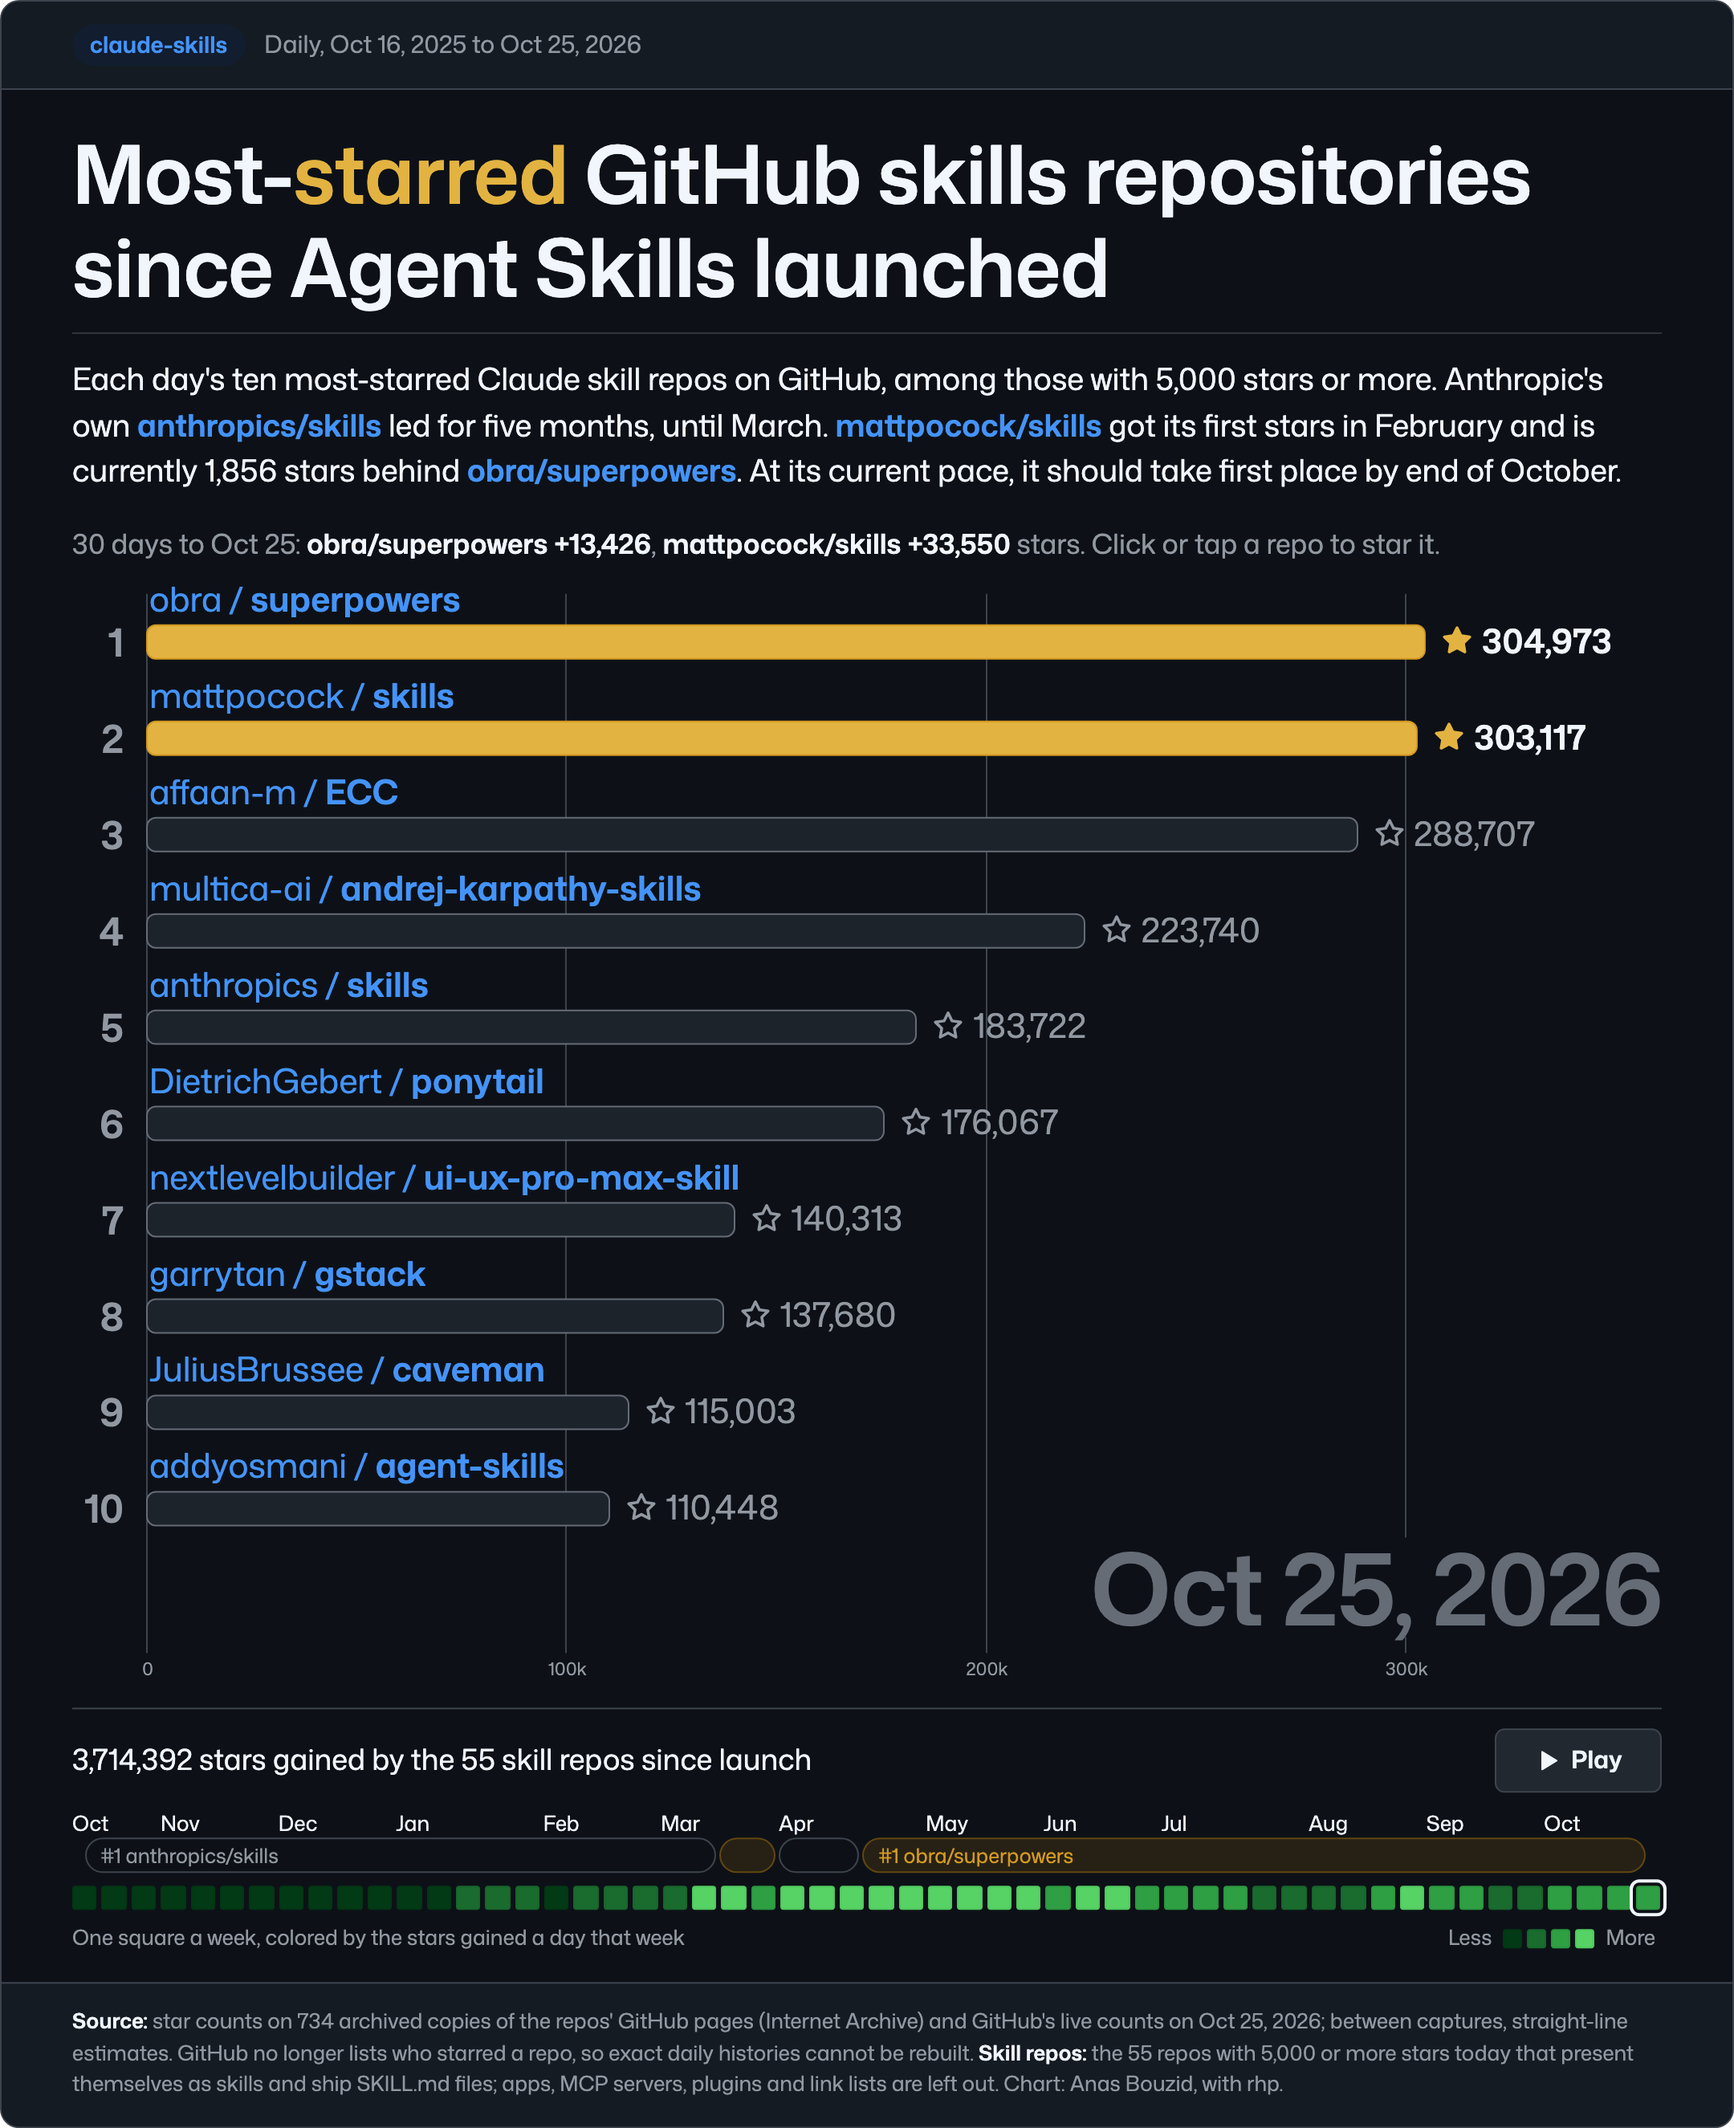
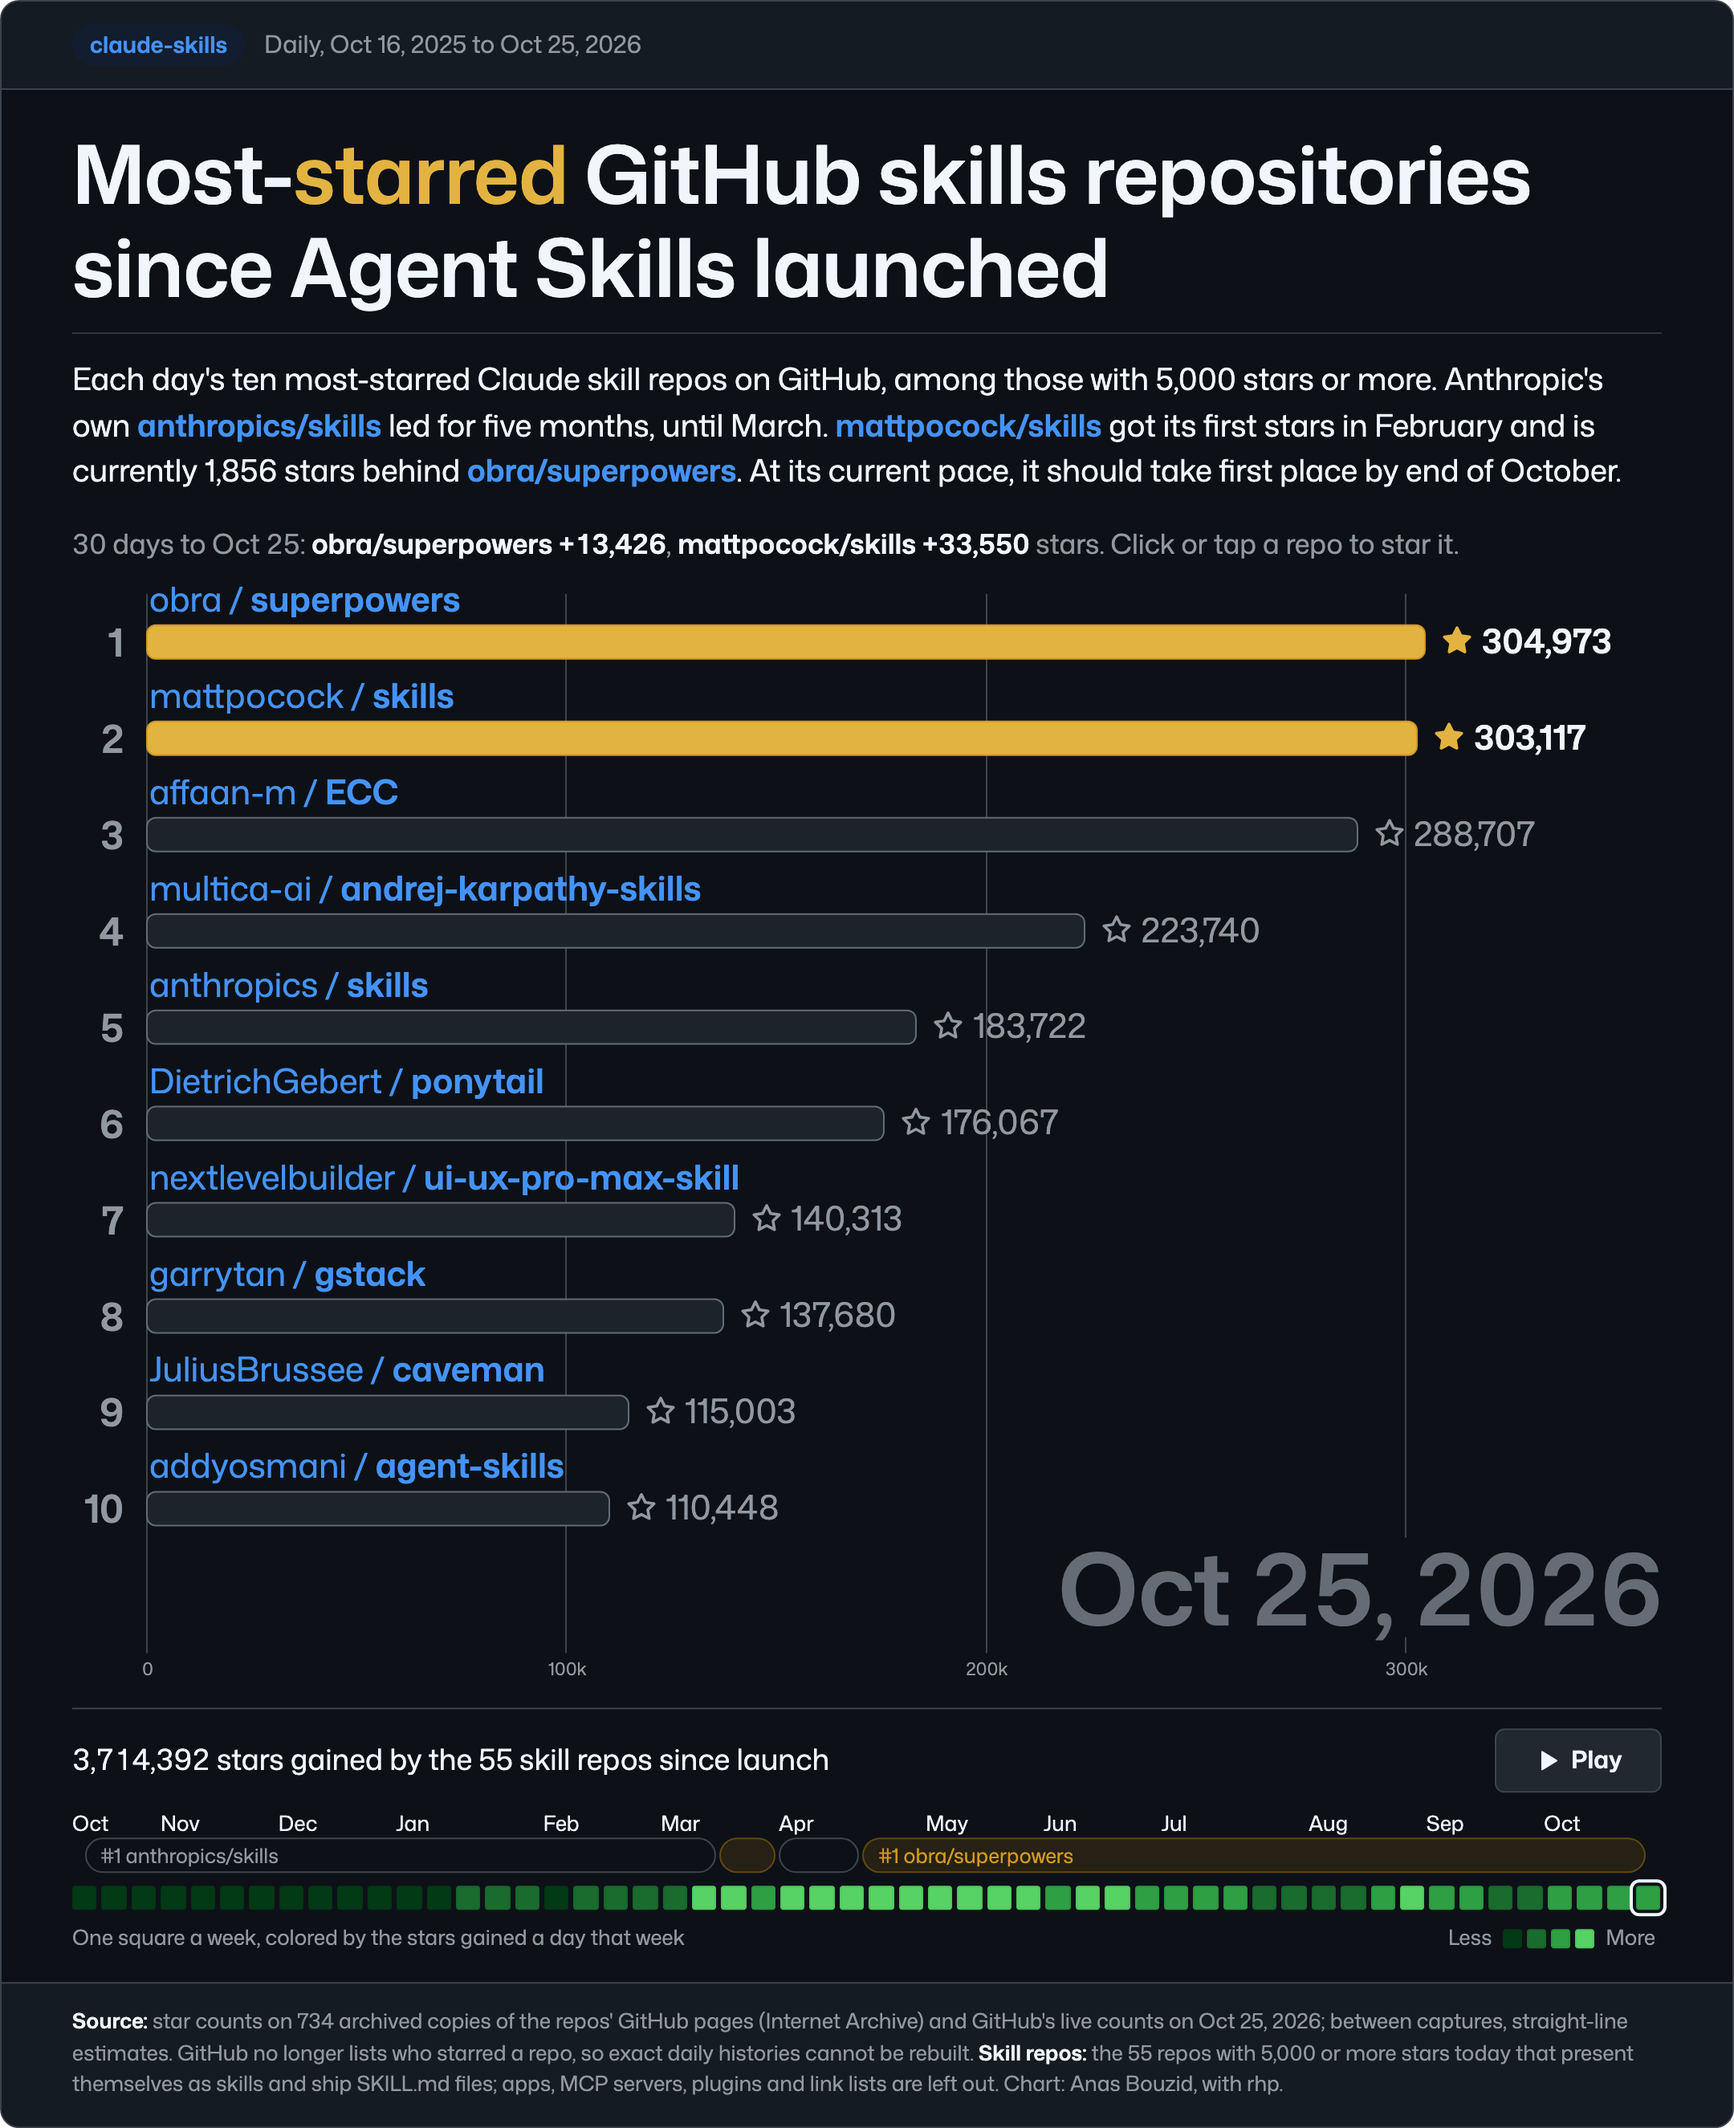
Keep the skill repo race's changing numbers from shifting the words around them
The stars-gained count, the readout and the date set each digit in a slot as wide as the widest, so the words beside them keep still as the race plays (measured over 60 days: the words after the count stay at one place instead of 58, the date's edge moves only when its month or day length changes). Mona Sans's own equal-width digits draw a slashed zero, so the poster keeps its digits.

diff --git a/examples/real/skill-repos-race/poster.template.html b/examples/real/skill-repos-race/poster.template.html
@@ -39,6 +39,7 @@ body { margin: 0; padding: 40px 16px; background: var(--page); color: var(--fg);
 .dock { display: contents; }
 .readout { grid-area: readout; height: 28px; margin: 0 0 6px; overflow: hidden; font-size: 17px; line-height: 28px; white-space: nowrap; text-overflow: ellipsis; color: var(--muted); }
 .readout b { color: var(--fg); font-weight: 600; }
+.digit { display: inline-block; width: .625em; text-align: center; }
 .stage { grid-area: stage; position: relative; --slat: 60px; --inset: 19px; }
 /* The date, large in the empty place under the shortest bars, as the race plays */
 .when { position: absolute; right: 0; bottom: 34px; z-index: 2; padding: 0 0 0 12px; background: var(--canvas); font: 600 62px/1 var(--text); letter-spacing: -.02em; color: var(--disabled); pointer-events: none; }
@@ -155,6 +156,9 @@ const longDate = new Intl.DateTimeFormat("en-US", { month: "short", day: "numeri
 const monthYear = new Intl.DateTimeFormat("en-US", { month: "short", year: "numeric", timeZone: "UTC" });
 const month = new Intl.DateTimeFormat("en-US", { month: "long", timeZone: "UTC" });
 const shortDate = new Intl.DateTimeFormat("en-US", { month: "short", day: "numeric", timeZone: "UTC" });
+// Text whose numbers change as the race plays: each digit in a slot as wide as the widest, so the words around the
+// number keep still (Mona Sans's own equal-width digits draw a slashed zero)
+const steady = (text) => [...text].map((c) => (c >= "0" && c <= "9" ? html`<span class="digit">${c}</span>` : c));
 
 // The weeks: four levels of stars gained a day, at the quartiles of the year, as GitHub's graph colors its days
 const WEEKS = DATA.weeks;
@@ -396,11 +400,11 @@ function SkillRace() {
       const from = Math.max(0, k - 30);
       const two = [...RACE[k]].sort((a, b) => REPOS[b].stars[k] - REPOS[a].stars[k]).slice(0, 2);
       if (two.length < 2) return "Point at a repo to read it; click or tap to star it";
-      const gain = (j) => `${REPOS[j].full} +${count.format(REPOS[j].stars[k] - REPOS[j].stars[from])}`;
-      return html`<span>${k - from} days to ${shortDate.format(dateOf(k))}: <b>${gain(two[0])}</b>, <b>${gain(two[1])}</b> stars. Click or tap a repo to star it.</span>`;
+      const gain = (j) => steady(`${REPOS[j].full} +${count.format(REPOS[j].stars[k] - REPOS[j].stars[from])}`);
+      return html`<span>${steady(`${k - from} days to ${shortDate.format(dateOf(k))}`)}: <b>${gain(two[0])}</b>, <b>${gain(two[1])}</b> stars. Click or tap a repo to star it.</span>`;
     }
     const r = REPOS[i];
-    return html`<b>${r.full}</b>: #${rankOf(i)} with ${count.format(Math.round(stars()[i]))} stars on ${longDate.format(dateOf(t()))}, created ${monthYear.format(new Date(r.created))}`;
+    return html`<b>${r.full}</b>: ${steady(`#${rankOf(i)} with ${count.format(Math.round(stars()[i]))} stars on ${longDate.format(dateOf(t()))}`)}, created ${monthYear.format(new Date(r.created))}`;
   };
   const week = () => Math.min(WEEKS.length - 1, Math.floor(t() / 7));
   // The graph's heading counts, as GitHub's counts contributions: the stars all tracked repos gained since the launch
@@ -420,7 +424,7 @@ function SkillRace() {
       <div class="stage" ref=${(el) => (stage = el)} style=${() => ({ "--chart-w": `${width()}px` })}
         onPointerMove=${(e) => e.pointerType !== "touch" && pick(e)} onClick=${star} onKeyDown=${starKey} onFocusIn=${pick}
         onPointerLeave=${leave} onFocusOut=${(e) => !e.currentTarget.contains(e.relatedTarget) && setPicked(null)}>
-        <span class="when" aria-hidden="true">${() => longDate.format(dateOf(t()))}</span>
+        <span class="when" aria-hidden="true">${() => steady(longDate.format(dateOf(t())))}</span>
         <${Chart} scale=${() => [0, top() * headroom()]} ticks=${4} animate=${{ slide: 300 }}
           format=${(v) => html`<span class="tick">${short.format(v).toLowerCase()}</span>`}
           label=${() => `GitHub stars of the ten most-starred Claude skill repos on ${when()}`}
@@ -434,7 +438,7 @@ function SkillRace() {
       <div class="dock">
       <p class="readout" aria-live=${() => (playing() ? "off" : "polite")}>${readout}</p>
       <div class="timeline">
-        <h2 class="count">${() => count.format(Math.round(gained()))} stars gained by the ${DATA.tracked} skill repos since launch</h2>
+        <h2 class="count">${() => steady(count.format(Math.round(gained())))} stars gained by the ${DATA.tracked} skill repos since launch</h2>
         <button type="button" class="play" onClick=${toggle}>${() => (playing() ? PAUSE() : PLAY())}<span class="label">${() => (playing() ? "Pause" : "Play")}</span></button>
         <div class="graph" style=${{ "--weeks": WEEKS.length, "--span": `${(LAST / (7 * WEEKS.length)) * 100}%` }}>
           <div class="months" aria-hidden="true">${MONTHS.map((m) => html`<span class=${m.alt ? "alt" : ""} style=${{ left: `${(m.i / WEEKS.length) * 100}%` }}>${m.name}</span>`)}</div>

diff --git a/examples/real/skill-repos-race/skill-repos-race.html b/examples/real/skill-repos-race/skill-repos-race.html
@@ -41,6 +41,7 @@ body { margin: 0; padding: 40px 16px; background: var(--page); color: var(--fg);
 .dock { display: contents; }
 .readout { grid-area: readout; height: 28px; margin: 0 0 6px; overflow: hidden; font-size: 17px; line-height: 28px; white-space: nowrap; text-overflow: ellipsis; color: var(--muted); }
 .readout b { color: var(--fg); font-weight: 600; }
+.digit { display: inline-block; width: .625em; text-align: center; }
 .stage { grid-area: stage; position: relative; --slat: 60px; --inset: 19px; }
 /* The date, large in the empty place under the shortest bars, as the race plays */
 .when { position: absolute; right: 0; bottom: 34px; z-index: 2; padding: 0 0 0 12px; background: var(--canvas); font: 600 62px/1 var(--text); letter-spacing: -.02em; color: var(--disabled); pointer-events: none; }
@@ -157,6 +158,9 @@ const longDate = new Intl.DateTimeFormat("en-US", { month: "short", day: "numeri
 const monthYear = new Intl.DateTimeFormat("en-US", { month: "short", year: "numeric", timeZone: "UTC" });
 const month = new Intl.DateTimeFormat("en-US", { month: "long", timeZone: "UTC" });
 const shortDate = new Intl.DateTimeFormat("en-US", { month: "short", day: "numeric", timeZone: "UTC" });
+// Text whose numbers change as the race plays: each digit in a slot as wide as the widest, so the words around the
+// number keep still (Mona Sans's own equal-width digits draw a slashed zero)
+const steady = (text) => [...text].map((c) => (c >= "0" && c <= "9" ? html`<span class="digit">${c}</span>` : c));
 
 // The weeks: four levels of stars gained a day, at the quartiles of the year, as GitHub's graph colors its days
 const WEEKS = DATA.weeks;
@@ -398,11 +402,11 @@ function SkillRace() {
       const from = Math.max(0, k - 30);
       const two = [...RACE[k]].sort((a, b) => REPOS[b].stars[k] - REPOS[a].stars[k]).slice(0, 2);
       if (two.length < 2) return "Point at a repo to read it; click or tap to star it";
-      const gain = (j) => `${REPOS[j].full} +${count.format(REPOS[j].stars[k] - REPOS[j].stars[from])}`;
-      return html`<span>${k - from} days to ${shortDate.format(dateOf(k))}: <b>${gain(two[0])}</b>, <b>${gain(two[1])}</b> stars. Click or tap a repo to star it.</span>`;
+      const gain = (j) => steady(`${REPOS[j].full} +${count.format(REPOS[j].stars[k] - REPOS[j].stars[from])}`);
+      return html`<span>${steady(`${k - from} days to ${shortDate.format(dateOf(k))}`)}: <b>${gain(two[0])}</b>, <b>${gain(two[1])}</b> stars. Click or tap a repo to star it.</span>`;
     }
     const r = REPOS[i];
-    return html`<b>${r.full}</b>: #${rankOf(i)} with ${count.format(Math.round(stars()[i]))} stars on ${longDate.format(dateOf(t()))}, created ${monthYear.format(new Date(r.created))}`;
+    return html`<b>${r.full}</b>: ${steady(`#${rankOf(i)} with ${count.format(Math.round(stars()[i]))} stars on ${longDate.format(dateOf(t()))}`)}, created ${monthYear.format(new Date(r.created))}`;
   };
   const week = () => Math.min(WEEKS.length - 1, Math.floor(t() / 7));
   // The graph's heading counts, as GitHub's counts contributions: the stars all tracked repos gained since the launch
@@ -422,7 +426,7 @@ function SkillRace() {
       <div class="stage" ref=${(el) => (stage = el)} style=${() => ({ "--chart-w": `${width()}px` })}
         onPointerMove=${(e) => e.pointerType !== "touch" && pick(e)} onClick=${star} onKeyDown=${starKey} onFocusIn=${pick}
         onPointerLeave=${leave} onFocusOut=${(e) => !e.currentTarget.contains(e.relatedTarget) && setPicked(null)}>
-        <span class="when" aria-hidden="true">${() => longDate.format(dateOf(t()))}</span>
+        <span class="when" aria-hidden="true">${() => steady(longDate.format(dateOf(t())))}</span>
         <${Chart} scale=${() => [0, top() * headroom()]} ticks=${4} animate=${{ slide: 300 }}
           format=${(v) => html`<span class="tick">${short.format(v).toLowerCase()}</span>`}
           label=${() => `GitHub stars of the ten most-starred Claude skill repos on ${when()}`}
@@ -436,7 +440,7 @@ function SkillRace() {
       <div class="dock">
       <p class="readout" aria-live=${() => (playing() ? "off" : "polite")}>${readout}</p>
       <div class="timeline">
-        <h2 class="count">${() => count.format(Math.round(gained()))} stars gained by the ${DATA.tracked} skill repos since launch</h2>
+        <h2 class="count">${() => steady(count.format(Math.round(gained())))} stars gained by the ${DATA.tracked} skill repos since launch</h2>
         <button type="button" class="play" onClick=${toggle}>${() => (playing() ? PAUSE() : PLAY())}<span class="label">${() => (playing() ? "Pause" : "Play")}</span></button>
         <div class="graph" style=${{ "--weeks": WEEKS.length, "--span": `${(LAST / (7 * WEEKS.length)) * 100}%` }}>
           <div class="months" aria-hidden="true">${MONTHS.map((m) => html`<span class=${m.alt ? "alt" : ""} style=${{ left: `${(m.i / WEEKS.length) * 100}%` }}>${m.name}</span>`)}</div>
